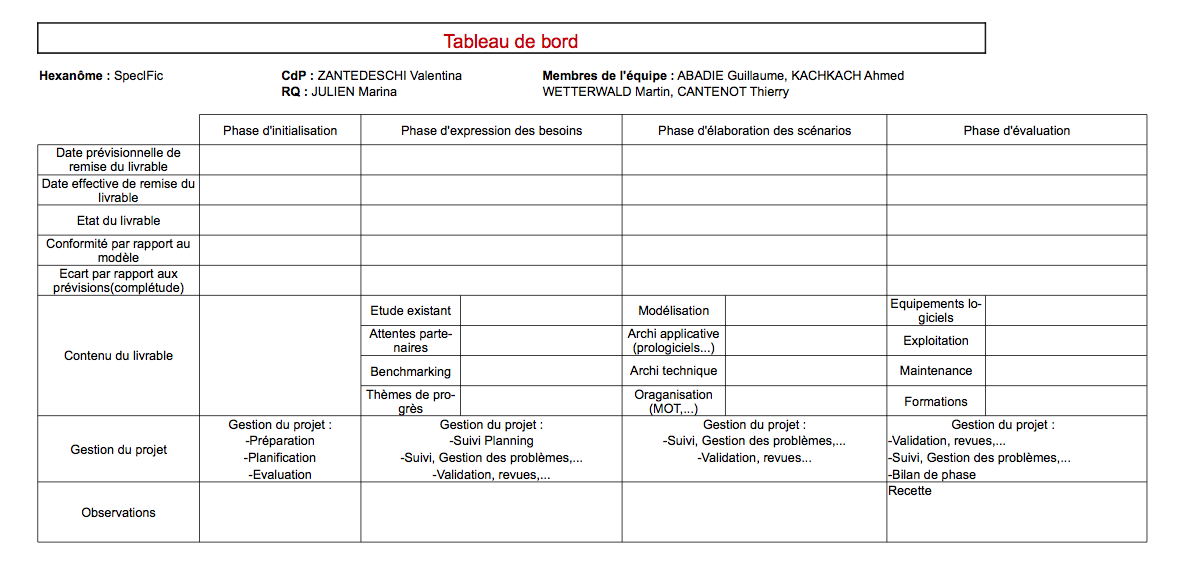
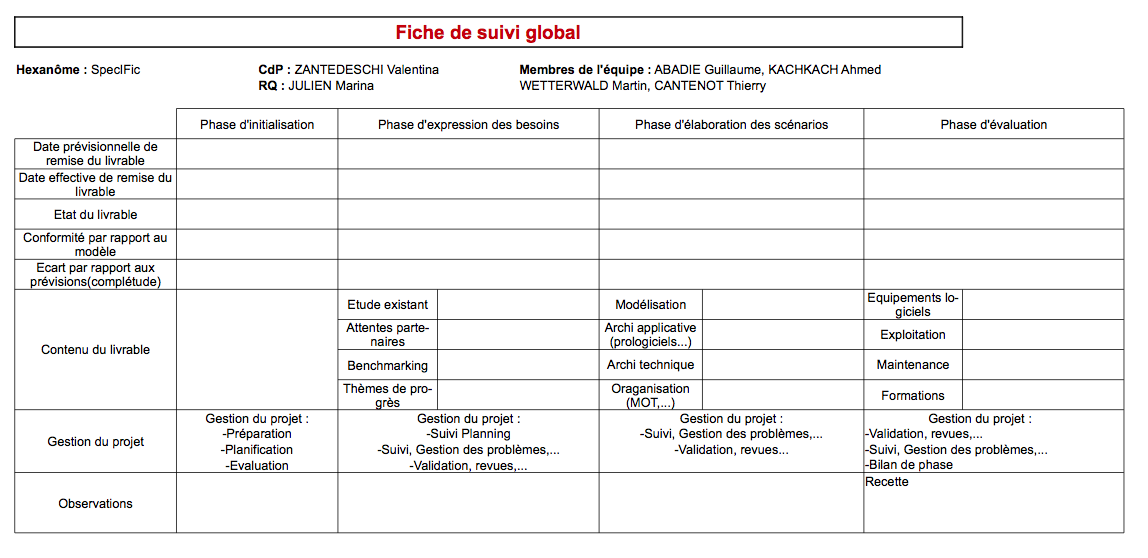
Ajout corrections prof pour paq

Changed region(s): [[0.0, 0.0305, 0.9756, 0.9749], [0.0305, 0.5789, 0.1524, 0.6398]]

diff --git a/latex/paq/paq.tex b/latex/paq/paq.tex
@@ -2,8 +2,8 @@
 
 \section{Outils pour la gestion et la production des documents du projet}
 
-    Les différents documents du projet seront produits à  l'aide de LaTeX et ensuite hébergés sur GitHub, un espace de travail collaboratif. Ce qui permettra à  chaque membre de l'équipe de suivre l'avancé des fichiers et de pouvoir les modifier à  distances.
-    L'utilisation de l'outils Trello permettra également une bonne répartition des documents à produire entre les membres de l'équipe et d'informer les autres sur notre état d'avancement.
+    Les différents documents du projet seront produits à  l'aide de LaTeX et ensuite hébergés sur GitHub, un espace de travail collaboratif. Ce qui permettra à  chaque membre de l'équipe de suivre l'avancé des fichiers et de pouvoir les modifier à  distances.
+    L'utilisation de l'outils Trello permettra également une bonne répartition des documents à produire entre les membres de l'équipe et d'informer les autres sur notre état d'avancement.
 
 \subsection{Formalisme d'un document}
 
@@ -19,8 +19,8 @@ On a choisi de ne pas garder le document pdf sur le dépôt pour une question d'
 \begin{itemize}
     \item Créer le dossier qui va contenir les différents fichiers.
     \item Créer le fichier texte.
-    \item Ecrire directement le titre (qui devra suivre une logique avec les autres fichiers texte), l'auteur, le nom du groupe ainsi que son sigle.
-    \item Les noms de fichiers seront du type : titre\_NomHexanome.xxx
+    \item Ecrire directement le titre (qui devra suivre une logique avec les autres fichiers texte).
+    \item Les noms de fichiers seront du type : NomHexanome\_Titre.xxx
    \item Créer le Makefile.
 \end{itemize}
 Puis la rédaction du document pourra commencer.
@@ -28,29 +28,33 @@ Puis la rédaction du document pourra commencer.
 \section{Mise en forme des fichiers}
 \subsection{Les livrables en cours}
 
-    Quelques règles devront être suivies pour permettre une bonne compréhension et relecture par tous les membres de l'équipe  :
+    Quelques règles devront être suivies pour permettre une bonne compréhension et relecture par tous les membres de l'équipe  :
 \begin{itemize}
-    \item Les titres seront indentés en fonction de leurs importances.
-    \item Ne pas hésiter à  aérer le texte en passant à  la ligne, ou à  faire des listes.
+    \item Ne pas hésiter à  aérer le texte en passant à  la ligne, ou à  faire des listes.
     \item Séparer les idées en différents paragraphes.
-    \item Penser à  l'indentation pour les nouveaux paragraphes.
+    \item Penser à  l'indentation pour les nouveaux paragraphes.
 \end{itemize}
 
 \subsection{Les livrables finaux}
-    Pour permettre une meilleure homogénéité entre tous les documents, la mise en forme finale des livrables se fera sous LaTeX. Une tête de page sera associée à  chaque page du livrable (sauf pour la page de garde) indiquant le titre du livrable. Un pied de page sera associé à  chaque page du livrable pour indiquer le numéro de page.
+    Pour permettre une meilleure homogénéité entre tous les documents, la mise en forme finale des livrables se fera sous LaTeX. Une tête de page sera associée à  chaque page du livrable (sauf pour la page de garde) indiquant le titre de la section où on en est. Un pied de page sera associé à  chaque page du livrable pour indiquer le numéro de page.
 
 
 \subsection{Page de garde}
-Cette page devra contenir  :
+Cette page devra contenir  :
 \begin{itemize}
-    \item le titre.
+    \item le logo de l'INSA.
+    \item les informations associées à l'INSA.
+    \item le titre du projet.
+    \item le titre du livrable.
+    \item la période de réalisation du projet.
+    \item l'image associées au projet.
     \item le nom de l'hexanôme.
     \item le nom des auteurs.
-    \item la date de la dernière mise à  jour du livrable.
+    \item le nom des enseignants.
 \end{itemize}
 
 \subsection{Sommaire}
-    Le sommaire récapitulera l'ensemble des parties et sous parties du livrable. Elles seront indiquées par le titre de la partie (ou sous partie), et seront numérotées en chiffres arabes. Chaque niveau de numérotation sera séparé par un point. Le numéro de la page où se trouve la partie se situera à  droite. Des liens hypertextes dans le sommaire permettront d'aller directement à  la partie souhaitées.
+    Le sommaire récapitulera l'ensemble des parties et sous parties du livrable. Elles seront indiquées par le titre de la partie (ou sous partie), et seront indiquées en lettres capitales pour les principales parties puis numérotées en chiffres arabes pour les sous parties. Chaque niveau de numérotation sera séparé par un point (Exemple : A.1.2). Le numéro de la page où se trouve la partie se situera à  droite. Des liens hypertextes dans le sommaire permettront d'aller directement à  la partie souhaitées.
 
 \pagebreak
 \section{Cycle de vie des livrables}
@@ -63,18 +67,18 @@ Cette page devra contenir  :
 
 \section{Procédure de validation interne}
   Une fois que l'auteur d'un livrable juge son travail fini, il contactera le responsable qualité qui fera alors une première relecture. Après validation une deuxième relecture sera faite par le chef de projet.
-Si des modifications sont nécessaires, il y a deux solutions possibles  :
+Si des modifications sont nécessaires, il y a deux solutions possibles  :
 \begin{itemize}
     \item les modifications simples (fautes d'orthographes, présentations...) seront directement faites par le lecteur.
-    \item les modifications plus importantes (gros irrespect du modèle de présentation, problème dans le contenu de fond...) entraineront une non validation et un retour à  l'auteur pour correction.
+    \item les modifications plus importantes (gros irrespect du modèle de présentation, problème dans le contenu de fond...) entraineront une non validation et un retour à  l'auteur pour correction.
 \end{itemize}
     L'auteur du livrable doit prévoir les temps de relectures et de corrections dans son planning pour pouvoir rendre son travail final en temps voulu.
-    Le livrable passe donc par différents états  :
+    Le livrable passe donc par différents états  :
 \begin{itemize}
-    \item Version initiale  : c'est la première écriture du livrable, non relu par le chef de projet et le responsable qualité.
-    \item Version modifiée  : livrable modifié depuis la dernière relecture mais non relu et validé par le chef de projet et le responsable qualité.
-    \item Version validée  : livrable validé par le responsable qualité et le chef de projet. Doit être passer en pdf.
-    \item Livrable final  : le fichier lu, approuvé et passé en pdf.
+    \item Version initiale  : c'est la première écriture du livrable, non relu par le chef de projet et le responsable qualité.
+    \item Version modifiée  : livrable modifié depuis la dernière relecture mais non relu et validé par le chef de projet et le responsable qualité.
+    \item Version validée  : livrable validé par le responsable qualité et le chef de projet. Doit être passer en pdf.
+    \item Livrable final  : le fichier lu, approuvé et passé en pdf.
 \end{itemize}
 
 \section{Procédure de validation et de recette avec le client}
@@ -82,13 +86,13 @@ Si des modifications sont nécessaires, il y a deux solutions possibles  :
 
     Si le document est irrécupérable (pour cause de document corrompu, introuvable...), le client pourra prendre contact avec le responsable communication de l'équipe pour demander un nouveau dépôt du livrable. La solution de livrer les documents par mail sera utilisée dans le cas où moodle deviendrait inutilisable.
 
-    En cas de non validation par le client, ce dernier pourra contacter le responsable communication de l'équipe pour faire remonter les remarques aux membres du projet. En cas de non compréhension des propositions, le responsable communication entreprendra un échange de mail, ou une rencontre avec le client pour identifier clairement les modifications à  apporter.
+    En cas de non validation par le client, ce dernier pourra contacter le responsable communication de l'équipe pour faire remonter les remarques aux membres du projet. En cas de non compréhension des propositions, le responsable communication entreprendra un échange de mail, ou une rencontre avec le client pour identifier clairement les modifications à  apporter.
     Une fois les corrections faites, un nouveau livrable sera déposé sur moodle, et le client informé par mail.
 
 \section{Les outils utilisés durant le projet}
-    Les documents seront gérés et partagés grâce à  GitHub. A chaque dépôt le membre de l'équipe devra écrire un commentaire indiquant les modifications apportées ou le but du document créé. Cela permettra un meilleur suivi des membres de l'équipe, et un retour facile à  une version antérieure en cas de problème.
+    Les documents seront gérés et partagés grâce à  GitHub. A chaque dépôt le membre de l'équipe devra écrire un commentaire indiquant les modifications apportées ou le but du document créé. Cela permettra un meilleur suivi des membres de l'équipe, et un retour facile à  une version antérieure en cas de problème.
     La rédaction initiale des livrables se fera sous n'importe quel éditeur de texte (selon la préférence de l'auteur). Mais la version finale avec sa mise en forme devra être faite sous LaTeX. LaTeX nous permettant une mise en forme plus rapide, et uniforme entre tous les documents.
-Dans le but de suivre l'évolution du projet, le chef de projet utilisera Gantt Project pour les plannings, puis OpenOffice pour mettre à  jour des fiches tels que  :
+Dans le but de suivre l'évolution du projet, le chef de projet utilisera Gantt Project pour les plannings, puis OpenOffice pour mettre à  jour des fiches tels que  :
 \begin{itemize}
     \item Les fiches de suivi d'avancement des livrables (une par livrable)
     \item Les comptes rendus de réunion (une par réunion)
@@ -97,6 +101,14 @@ Dans le but de suivre l'évolution du projet, le chef de projet utilisera Gantt 
 
 \pagebreak
 \section{Les fiches}
+\subsection{Tableau de bord}
+\begin{figure}[h]
+    \centering
+    \includegraphics[width=140mm]{images/TblBord.png}
+    \caption{Tableau de bord}
+\end{figure}
+
+\pagebreak
 \subsection{Fiche de suivi d'avancement des livrables}
 \begin{figure}[h]
     \centering
@@ -114,7 +126,7 @@ Dans le but de suivre l'évolution du projet, le chef de projet utilisera Gantt 
 
 \pagebreak
 \begin{landscape}
-\subsection{Tableau de bord}
+\subsection{Fiche de suivi global}
 \begin{figure}[h]
     \centering
     \includegraphics[width=220mm]{images/dashboard.png}
